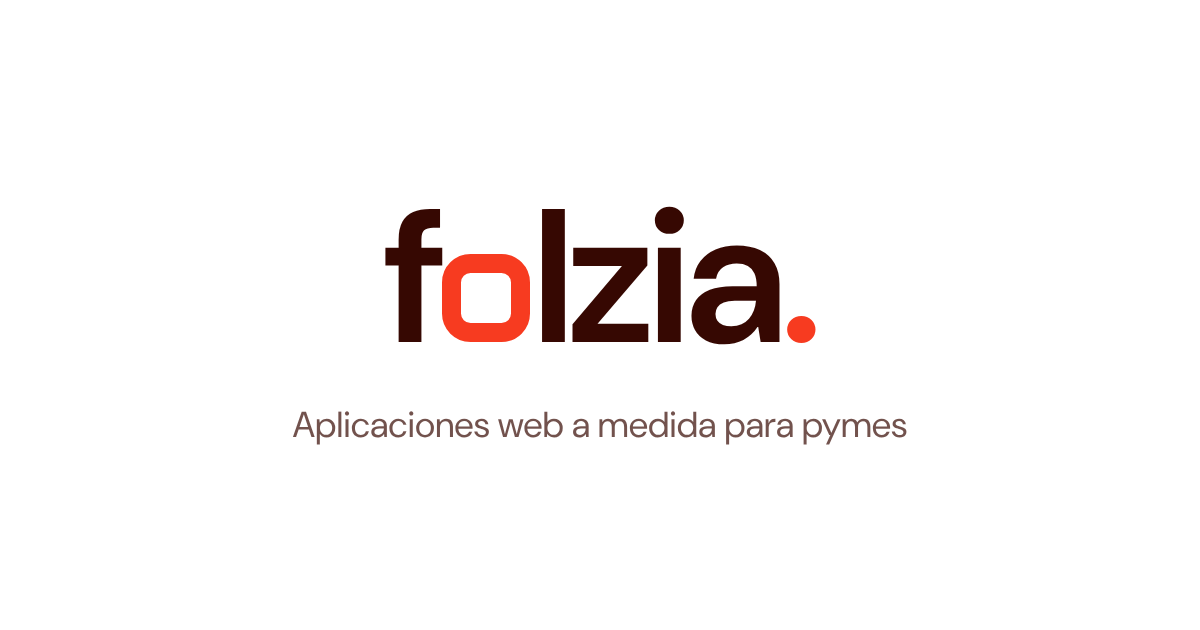
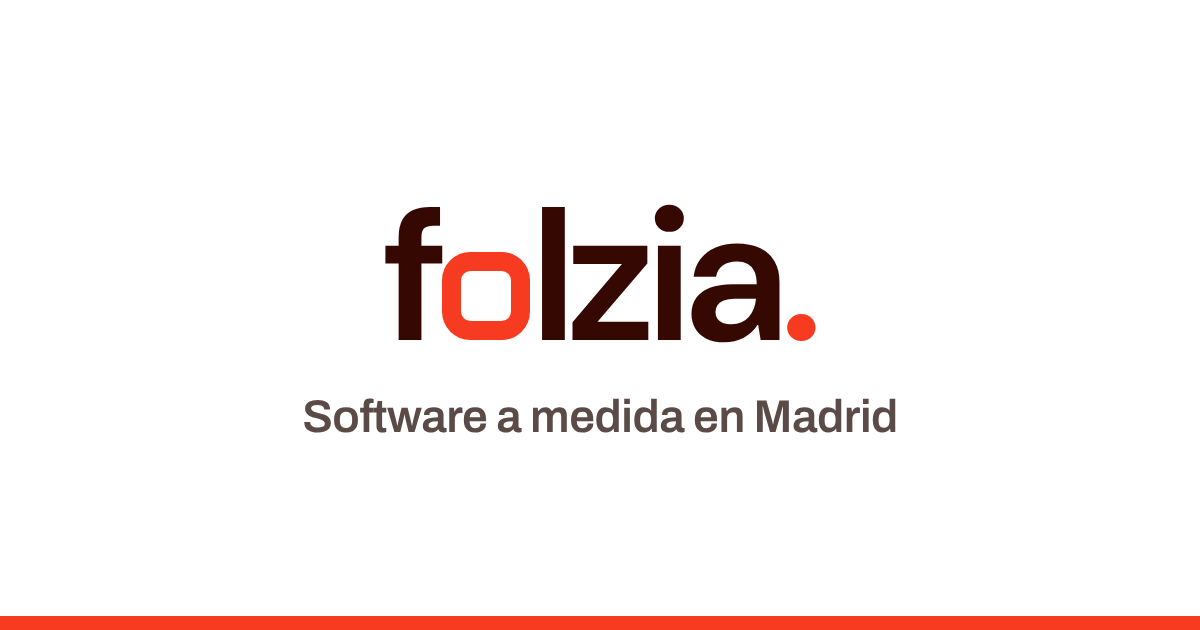
Imagen para compartir actualizada, título de contacto sin montarse en el formulario y botón flotante oculto en portada y contacto
Claude-Session: https://claude.ai/code/session_01M7Yp1oBsHeGio34CtEJuHw

diff --git a/public/styles.css b/public/styles.css
@@ -166,7 +166,7 @@ h2 { font-weight: 800; font-stretch: 110%; font-size: clamp(40px, 5.2vw, 80px); 
 /* Contacto (sección naranja) */
 .contact-grid { display: grid; grid-template-columns: 0.8fr 1.2fr; gap: clamp(32px, 5vw, 80px); align-items: start; }
 .contact-side { position: sticky; top: 120px; }
-.contact-side h2 { font-size: clamp(48px, 6vw, 96px); }
+.contact-side h2 { font-size: clamp(44px, 4.6vw, 72px); }
 .contact-side p { margin-top: 20px; font-size: 20px; max-width: 22em; }
 .contact-side .mail { font-size: 17px; }
 .contact-side .mail a { font-weight: 700; }
@@ -349,3 +349,6 @@ fieldset { min-width: 0; }
 .wa-flot:focus-visible { outline: 3px solid var(--ink); outline-offset: 3px; }
 @media (max-width: 760px) { .wa-flot { width: 56px; padding: 0; justify-content: center; } .wa-flot span { display: none; } }
 @media (prefers-reduced-motion: reduce) { .wa-flot { transition: none; } }
+/* El botón flotante se oculta en la portada y en el contacto, donde ya hay botones de WhatsApp */
+.wa-flot { transition: transform 160ms var(--ease), background-color 160ms var(--ease), opacity 220ms var(--ease), visibility 0s linear 0s; }
+.wa-flot.oculto { opacity: 0; visibility: hidden; transform: translateY(14px); transition: opacity 220ms var(--ease), transform 220ms var(--ease), visibility 0s linear 220ms; }

diff --git a/public/main.js b/public/main.js
@@ -567,3 +567,17 @@ function toObject(data) {
     }
   });
 })();
+
+// Botón flotante de WhatsApp: solo aparece fuera de la portada y del contacto, para no tapar texto ni repetir botones
+(function () {
+  const b = document.querySelector('.wa-flot');
+  const zonas = [document.querySelector('.hero'), document.getElementById('contacto')].filter(Boolean);
+  if (!b || !zonas.length || !('IntersectionObserver' in window)) return;
+  const visibles = new Set();
+  b.classList.add('oculto');
+  const io = new IntersectionObserver((es) => {
+    es.forEach((e) => (e.isIntersecting ? visibles.add(e.target) : visibles.delete(e.target)));
+    b.classList.toggle('oculto', visibles.size > 0);
+  }, { rootMargin: '0px 0px -25% 0px' });
+  zonas.forEach((z) => io.observe(z));
+})();
